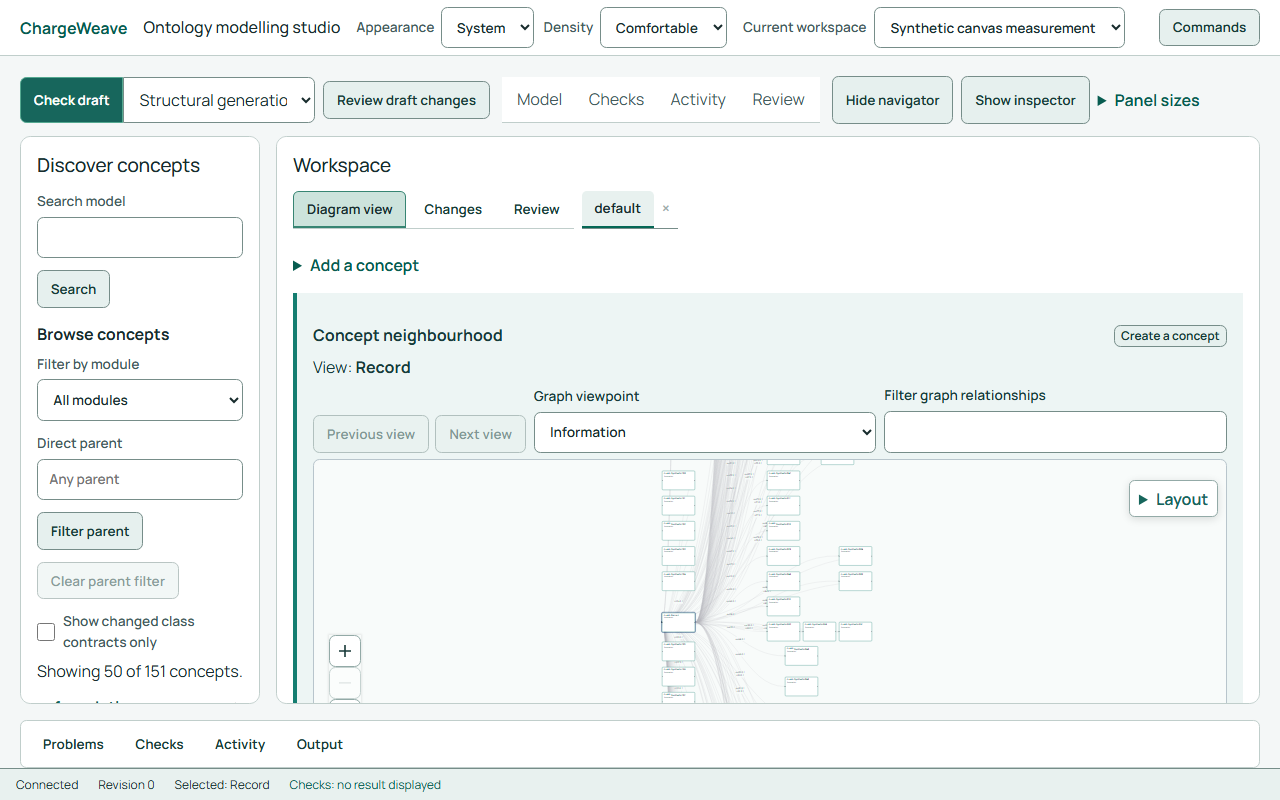
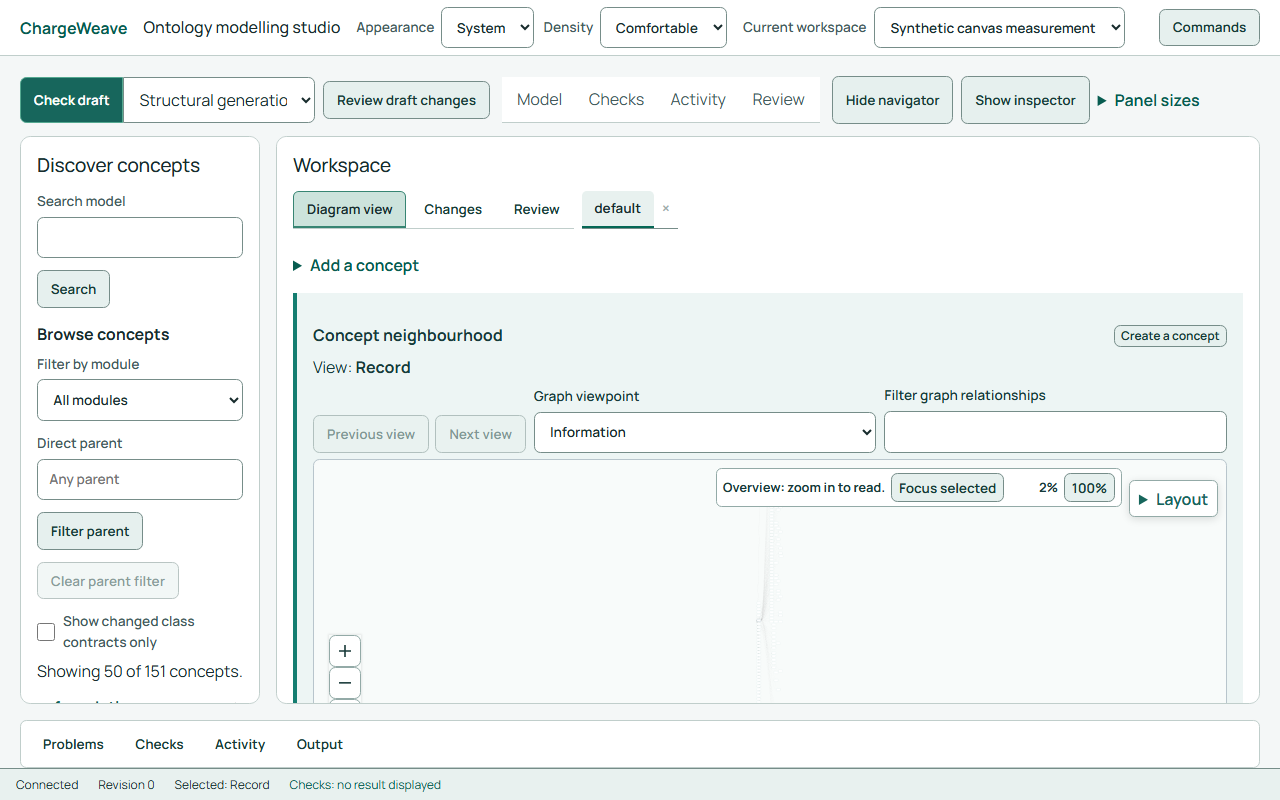
Fit dense diagrams with an explicit readable-focus path
Allow the explicit fit operation and persisted viewport to use smaller bounded zoom levels, and expose a focus-selected action when the result is an unreadable overview. Verify 151 node bounds fit, focus restores readable scale, and existing viewport and minimap scenarios pass; dense-model human usability remains unverified.

diff --git a/website/src/ModellingCanvas.jsx b/website/src/ModellingCanvas.jsx
@@ -5,7 +5,7 @@ import { readCanvasPositions, writeCanvasPositions } from './model/canvas-positi
 import { readCanvasPins, writeCanvasPins } from './model/canvas-pins.js';
 import { readCanvasHidden, writeCanvasHidden } from './model/canvas-hidden.js';
 import { positionChange, samePositionMaps, undoPositionChange, redoPositionChange } from './model/canvas-history.js';
-import { readCanvasViewport, writeCanvasViewport } from './model/canvas-viewport.js';
+import { MIN_CANVAS_ZOOM, readCanvasViewport, writeCanvasViewport } from './model/canvas-viewport.js';
 import { canvasGroupFrames } from './model/canvas-groups.js';
 import { distributePositions } from './model/canvas-distribute.js';
 import '@xyflow/react/dist/style.css';
@@ -44,11 +44,12 @@ const RelationshipEdge = memo(function RelationshipEdge({ id, sourceX, sourceY, 
 });
 const edgeTypes = { relationship: RelationshipEdge };
 const multiplicity = { '!': '1', '?': '0..1', '+': '1..*', '*': '0..*' };
-function ZoomReadout({ onManualInteraction, onOverviewChange }) {
+function ZoomReadout({ onManualInteraction, onOverviewChange, onFocusSelected }) {
   const { zoom } = useViewport();
   const { zoomTo } = useReactFlow();
   useEffect(() => { onOverviewChange(zoom < 0.6); }, [zoom, onOverviewChange]);
   return <div className="studio-canvas-zoom" role="group" aria-label="Diagram zoom">
+    {zoom < 0.15 && <><span className="studio-canvas-overview-hint">Overview: zoom in to read.</span><button type="button" onClick={onFocusSelected}>Focus selected</button></>}
     <span aria-label="Diagram zoom level">{Math.round(zoom * 100)}%</span>
     <button type="button" aria-label="Reset zoom to 100%" onClick={() => { onManualInteraction(); void zoomTo(1, { duration: motionDuration(200) }); }}>100%</button>
   </div>;
@@ -218,7 +219,7 @@ export default function ModellingCanvas({ graph, viewId, selectedName, onSelect,
     const names = [...layoutSelection].filter(name => visibleNames.has(name));
     if (!instance.current || !names.length || layoutState !== 'ready') return;
     onManualInteraction();
-    void instance.current.fitView({ nodes: names.map(id => ({ id })), padding: 0.2, minZoom: 0.15, maxZoom: 1, duration: motionDuration(200) });
+    void instance.current.fitView({ nodes: names.map(id => ({ id })), padding: 0.2, minZoom: MIN_CANVAS_ZOOM, maxZoom: 1, duration: motionDuration(200) });
   }
   function alignLayoutSelection(axis) {
     if (layoutState !== 'ready' || layoutSelection.size < 2 || !storageWritable.current || pinRecoveryNeeded || [...layoutSelection].some(name => layoutPins.has(name))) return;
@@ -527,10 +528,10 @@ export default function ModellingCanvas({ graph, viewId, selectedName, onSelect,
         catch { setViewportNotice('This browser tab could not remember the diagram position.'); }
       }} onNodeClick={(_event, node) => { onManualInteraction(); selectNode(node); }} onEdgeClick={(_event, edge) => inspectEdge(edge.id)}
       onConnect={connection => { onManualInteraction(); onConnect(connection); }}
-      nodesConnectable deleteKeyCode={null} minZoom={0.15} maxZoom={2} aria-label="Interactive concept graph">
+      nodesConnectable deleteKeyCode={null} minZoom={MIN_CANVAS_ZOOM} maxZoom={2} aria-label="Interactive concept graph">
       <ViewportPortal>{groupFrames.map(frame => <div key={frame.index} className="studio-canvas-group-frame" aria-hidden="true" style={{ left: frame.left, top: frame.top, width: frame.width, height: frame.height }}><span>{frame.name}</span></div>)}</ViewportPortal>
       {showMinimap && <MiniMap className="studio-canvas-minimap" position="top-left" style={{ width: 140, height: 90 }} ariaLabel="Diagram overview" nodeColor="#5c8580" maskColor="rgba(20, 42, 42, .25)" pannable zoomable onClick={onManualInteraction} />}
-      <Background /><Controls showInteractive={false}><ControlButton className="studio-focus-control" aria-label="Focus selected concept" title="Focus selected concept" disabled={layoutState !== 'ready' || !graph.nodes.some(node => node.name === selectedName)} onClick={focusSelected}><svg viewBox="0 0 24 24" aria-hidden="true"><circle cx="12" cy="12" r="7" /><path d="M12 2v4m0 12v4M2 12h4m12 0h4" /></svg></ControlButton></Controls><ZoomReadout onManualInteraction={onManualInteraction} onOverviewChange={setOverview} />
+      <Background /><Controls showInteractive={false}><ControlButton className="studio-focus-control" aria-label="Focus selected concept" title="Focus selected concept" disabled={layoutState !== 'ready' || !graph.nodes.some(node => node.name === selectedName)} onClick={focusSelected}><svg viewBox="0 0 24 24" aria-hidden="true"><circle cx="12" cy="12" r="7" /><path d="M12 2v4m0 12v4M2 12h4m12 0h4" /></svg></ControlButton></Controls><ZoomReadout onManualInteraction={onManualInteraction} onOverviewChange={setOverview} onFocusSelected={focusSelected} />
     </ReactFlow>
   </div>
     {viewportNotice && <p className="studio-canvas-viewport-notice" aria-live="polite">{viewportNotice}</p>}

diff --git a/website/src/canvas-layout-controls.css b/website/src/canvas-layout-controls.css
@@ -38,7 +38,7 @@
 .studio-concept-layout-selected { display: block; color: #4d2686; font-size: 10px; font-weight: 700; }
 .studio-concept-layout-pinned { display: block; color: #124f77; font-size: 10px; font-weight: 700; }
 .studio-flow:has(.studio-canvas-layout-menu) .studio-layout-notice { max-width: min(32rem, calc(100% - 6.5rem)); }
-.studio-canvas-zoom { position: absolute; z-index: 4; right: .5rem; bottom: 1.8rem; display: flex; align-items: center; gap: .35rem; padding: .25rem .35rem; border: 1px solid #93aaa7; border-radius: .35rem; background: #fff; color: #183a39; font-size: .8rem; font-weight: 700; }
+.studio-canvas-zoom { position: absolute; z-index: 4; right: 6.5rem; top: .5rem; display: flex; flex-wrap: wrap; align-items: center; gap: .35rem; max-width: calc(100% - 7.5rem); padding: .25rem .35rem; border: 1px solid #93aaa7; border-radius: .35rem; background: #fff; color: #183a39; font-size: .8rem; font-weight: 700; }
 .studio-canvas-zoom span { min-width: 3rem; text-align: right; }
 .modelling-studio .studio-canvas-zoom button { min-height: 1.8rem; padding: .2rem .45rem; }
 .studio-canvas-viewport-notice { color: var(--studio-text, #e4eeef); font-size: .8rem; }

diff --git a/website/src/model/canvas-viewport.js b/website/src/model/canvas-viewport.js
@@ -1,10 +1,11 @@
 export const canvasViewportKey = (workspaceId, viewId, root) => `chargeweave.canvas-viewport.v1.${workspaceId}.${encodeURIComponent(viewId)}.${encodeURIComponent(root)}`;
+export const MIN_CANVAS_ZOOM = 0.01;
 
 function validViewport(value) {
   return Boolean(value && typeof value === 'object' && !Array.isArray(value)
     && Number.isFinite(value.x) && Math.abs(value.x) < 1000000
     && Number.isFinite(value.y) && Math.abs(value.y) < 1000000
-    && Number.isFinite(value.zoom) && value.zoom >= 0.15 && value.zoom <= 2);
+    && Number.isFinite(value.zoom) && value.zoom >= MIN_CANVAS_ZOOM && value.zoom <= 2);
 }
 
 export function readCanvasViewport(storage, workspaceId, viewId, root) {

diff --git a/website/src/model/canvas-viewport.test.js b/website/src/model/canvas-viewport.test.js
@@ -14,6 +14,9 @@ test('viewport preferences are isolated by workspace, view and root', () => {
   assert.equal(readCanvasViewport(storage, 'workspace-one', 'view / one', 'Record'), null);
   assert.equal(readCanvasViewport(storage, 'workspace-one', 'other', 'Device'), null);
   assert.equal(readCanvasViewport(storage, 'workspace-two', 'view / one', 'Device'), null);
+  const overview = { x: 0, y: 0, zoom: 0.01 };
+  writeCanvasViewport(storage, 'workspace-one', 'view / one', 'Device', overview);
+  assert.deepEqual(readCanvasViewport(storage, 'workspace-one', 'view / one', 'Device'), overview);
 });
 
 test('invalid viewport preferences fall back without throwing or being rewritten', () => {

diff --git a/docs/ontology-modelling-ide-ux-status.md b/docs/ontology-modelling-ide-ux-status.md
@@ -132,6 +132,8 @@ The synthetic welcome, relationship editor, failed-check and review views were a
 
 Synthetic Changes and 151-node/200-edge dense-view screenshots are now recorded at both desktop sizes and themes. The Changes capture shows a real synthetic draft edit and patch. The dense capture uses the explicit fit control: at its 15% minimum zoom, the fixture is still clipped and labels are unreadable, so users must zoom or focus concepts and the dense-neighbourhood usability target remains open. These captures do not establish real zoom, assistive-technology or human usability acceptance.
 
+The explicit fit control now permits zooming below 15% for very large views, and local viewport restoration accepts the same bounded range. In the synthetic 151-node fixture, a browser geometry check confirmed all node bounds fit within the 1280px canvas, and the visible Focus selected action restored 100% zoom. The fitted overview was about 2% and remains unreadable; it is an orientation view rather than proof of dense-model usability. The website build, two viewport-storage tests and focused zoom/viewport/minimap browser checks passed (five passed, three project-specific skips). Human review and real-display performance remain open.
+
 Shared-view load and save now require unfinished note or group input to be added or cleared first. A load also stops if such input is started while the request is in flight; a save reports when input typed afterward was not included. The website build, six desktop/mobile note and load-race scenarios, six desktop/mobile load/save-race scenarios, and eight related saved-view scenarios passed locally. GitHub verification remains separate.
 
 When a shared-view save completes after later local changes, the success notice now explicitly says those later changes remain unsaved; unfinished input is also identified, including if the view list refresh fails. The website build and **12 focused desktop/mobile saved-view and delayed-operation scenarios** passed locally. This is not evidence of independent usability review.

diff --git a/evidence/ontology-studio/ide/README.md b/evidence/ontology-studio/ide/README.md
@@ -12,6 +12,6 @@ The additional `welcome`, `relationship-editor`, `problems` and `review` images 
 
 The `changes` images show a synthetic description edit and its source patch at both desktop widths and themes. They were generated from commit `352253d4496a2499d1c6301fba743f7fc20d29fc` with `node scripts/capture-studio-workflows.mjs --changes` and a second run adding `--wide`.
 
-The `dense` images show a synthetic 151-node, 200-edge view after using the explicit fit control, at both desktop widths and themes. They were generated against the same commit with `node scripts/measure-canvas.mjs --capture-dense`. The fit view reaches the 15% minimum zoom and does not show the entire fixture; labels are too small to read at that overview scale. Users must zoom or focus individual concepts. This does not demonstrate that the dense-neighbourhood usability target is met.
+The `dense` images show a synthetic 151-node, 200-edge view after using the explicit fit control, at both desktop widths and themes. They were recaptured from the working tree based on `f7498672954fcc2fe837c5ef4e31963f00a9b06e` plus the zoom-bound and overview-guidance changes committed with them, using `node scripts/measure-canvas.mjs --capture-dense`. A browser geometry check confirmed that the node bounds fit inside the canvas at 1280px, and the Focus selected control returned to 100%. The resulting overview is approximately 2% zoom and its labels are unreadable; the UI advises zooming or focusing a concept. This does not demonstrate that the dense-neighbourhood usability target is met.
 
 These captures are partial visual evidence, not acceptance: other required scenarios, real browser zoom, assistive technology and independent human usability review remain outstanding.
